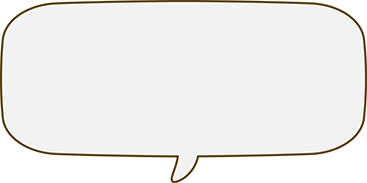
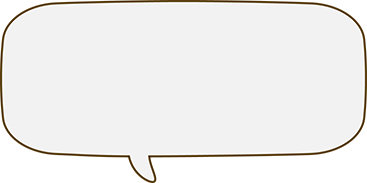
chars in conversation

diff --git a/src/entities/call.ts b/src/entities/call.ts
@@ -2,8 +2,12 @@ import Port from './port';
 import { Game as GameScene } from '../scenes/game';
 import * as config from '../config.json';
 
-const personASpeechY = 500;
-const personBSpeechY = 200;
+const speechX = 200;
+const personASpeechY = 480;
+const personBSpeechY = 100;
+const avatarOffsetY = 180;
+const avatarPersonAX = 100;
+const avatarPersonBX = 300;
 
 export default class Call {
     scene: GameScene;
@@ -15,6 +19,7 @@ export default class Call {
     speechBubble: Phaser.GameObjects.Sprite;
     speechText: Phaser.GameObjects.Text;
     speechTimer: Phaser.Time.TimerEvent;
+    avatar: Phaser.GameObjects.Sprite;
 
     callerTimer: Phaser.Time.TimerEvent;
     initTime: number;
@@ -25,6 +30,7 @@ export default class Call {
     complete = false;
     successful = false;
     words: string[];
+    characters: number[];
 
     constructor(scene: GameScene, source: Port, destination: Port, conversation: string) {
         this.scene = scene;
@@ -38,7 +44,6 @@ export default class Call {
         this.source.receiveIncommingCall(this);
         this.destination.expectCall();
 
-        const speechX = 200;
         this.speechBubble = new Phaser.GameObjects.Sprite(scene, speechX, personASpeechY, 'speech_bubble');
         this.speechText = new Phaser.GameObjects.Text(scene, speechX, personASpeechY, '', {
             fontFamily: 'Arial',
@@ -51,11 +56,29 @@ export default class Call {
         });
         this.speechBubble.setOrigin(0.5, 0.4);
         this.speechText.setOrigin(0.5);
+
+        this.characters = [Phaser.Math.Between(1, config.characters)];
+
+        let personB: number;
+
+        while (personB === undefined || personB === this.characters[0]) {
+            personB = Phaser.Math.Between(1, config.characters);
+            this.characters.push(personB);
+        }
+
+        this.avatar = new Phaser.GameObjects.Sprite(scene, avatarPersonAX, personASpeechY + avatarOffsetY, `character_${this.characters[0]}`);
+
         this.speechBubble.visible = false;
         this.speechText.visible = false;
+        this.avatar.visible = false;
+
+        // start them flipped
+        this.speechBubble.toggleFlipX();
+        this.avatar.toggleFlipX();
 
         scene.add.existing(this.speechBubble);
         scene.add.existing(this.speechText);
+        scene.add.existing(this.avatar);
 
         // timeout for successful connection to be made
         this.callerTimer = scene.time.addEvent({
@@ -122,6 +145,7 @@ export default class Call {
     private showDialog(show: boolean): void {
         this.speechBubble.visible = show;
         this.speechText.visible = show;
+        this.avatar.visible = show;
     }
 
     private playConversation(): void {
@@ -130,17 +154,27 @@ export default class Call {
         // alternate speaker
         this.speechText.text = '';
         this.personASpeaking = !this.personASpeaking;
-        this.speechBubble.toggleFlipX();
+
         this.scene.children.bringToTop(this.speechBubble);
         this.scene.children.bringToTop(this.speechText);
+
+        this.speechBubble.toggleFlipX();
+        this.avatar.toggleFlipX();
+
+        const avatarIndex = this.personASpeaking ? 0 : 1;
+        this.avatar.setTexture(`character_${this.characters[avatarIndex]}`);
 
         if (this.personASpeaking) {
             this.speechBubble.y = personASpeechY;
             this.speechText.y = personASpeechY;
+            this.avatar.x = avatarPersonAX;
         } else {
             this.speechBubble.y = personBSpeechY;
             this.speechText.y = personBSpeechY;
+            this.avatar.x = avatarPersonBX;
         }
+
+        this.avatar.y = this.speechBubble.y + avatarOffsetY;
 
         this.textType(text, () => {
             if (this.conversation.length) {
@@ -187,7 +221,6 @@ export default class Call {
             this.scene.updateCallStatus('failed_call');
         }
 
-        console.log('call end', success ? 'success' : 'failure');
         this.successful = success;
         this.active = false;
         this.connected = false;
@@ -206,6 +239,8 @@ export default class Call {
         this.speechBubble = null;
         this.speechText.destroy();
         this.speechText = null;
+        this.avatar.destroy();
+        this.avatar = null;
 
         this.source.removeCall();
         this.destination.removeCall();

diff --git a/src/scenes/game.ts b/src/scenes/game.ts
@@ -201,7 +201,6 @@ export class Game extends Scene {
   }
 
   private updateClock(): void {
-    console.log('tick', this.minute);
     this.minute++;
 
     if (this.minute === config.gameTime) {
